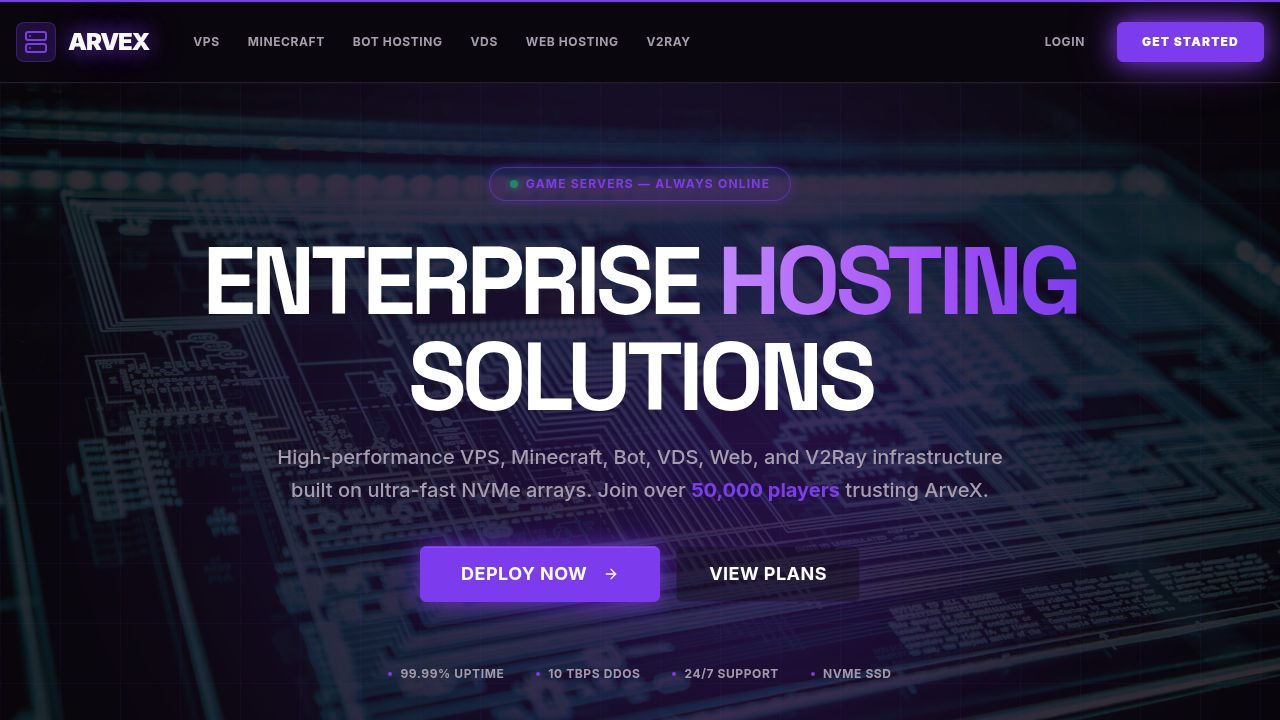
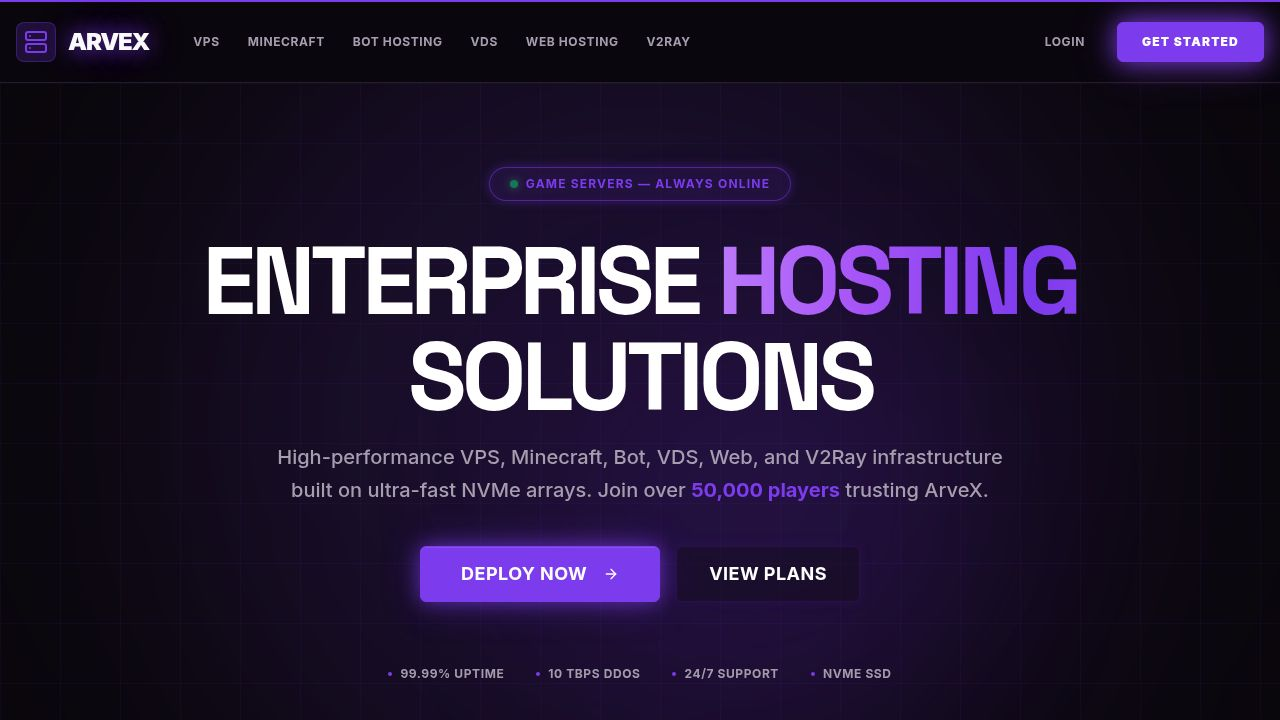
Update Vite configurations to use default environment variables
Update vite.config.ts for both the main arvex app and the mockup-sandbox to provide default values for PORT and BASE_PATH, making the build process more resilient and removing hard requirements for these environment variables.

Replit-Commit-Author: Agent
Replit-Commit-Session-Id: 00a4f35b-fbac-442d-90ed-407f319c77b3
Replit-Commit-Checkpoint-Type: full_checkpoint
Replit-Commit-Event-Id: 59b77670-cc3b-4cc9-9072-15c6058c4232
Replit-Commit-Screenshot-Url: https://storage.googleapis.com/screenshot-production-us-central1/eb1f8a98-8b94-4825-9bcc-7e98b86f394c/00a4f35b-fbac-442d-90ed-407f319c77b3/CQXxLzh
Replit-Helium-Checkpoint-Created: true

Changed region(s): [[0.0, 0.1528, 1.0, 1.0], [0.75, 0.9167, 1.0, 1.0], [0.1562, 0.9167, 0.1875, 1.0]]

diff --git a/artifacts/arvex/vite.config.ts b/artifacts/arvex/vite.config.ts
@@ -4,27 +4,14 @@ import tailwindcss from "@tailwindcss/vite";
 import path from "path";
 import runtimeErrorOverlay from "@replit/vite-plugin-runtime-error-modal";
 
-const rawPort = process.env.PORT;
-
-if (!rawPort) {
-  throw new Error(
-    "PORT environment variable is required but was not provided.",
-  );
-}
-
+const rawPort = process.env.PORT ?? "23182";
 const port = Number(rawPort);
 
 if (Number.isNaN(port) || port <= 0) {
   throw new Error(`Invalid PORT value: "${rawPort}"`);
 }
 
-const basePath = process.env.BASE_PATH;
-
-if (!basePath) {
-  throw new Error(
-    "BASE_PATH environment variable is required but was not provided.",
-  );
-}
+const basePath = process.env.BASE_PATH ?? "/";
 
 export default defineConfig({
   base: basePath,

diff --git a/artifacts/mockup-sandbox/vite.config.ts b/artifacts/mockup-sandbox/vite.config.ts
@@ -5,27 +5,14 @@ import path from "path";
 import runtimeErrorOverlay from "@replit/vite-plugin-runtime-error-modal";
 import { mockupPreviewPlugin } from "./mockupPreviewPlugin";
 
-const rawPort = process.env.PORT;
-
-if (!rawPort) {
-  throw new Error(
-    "PORT environment variable is required but was not provided.",
-  );
-}
-
+const rawPort = process.env.PORT ?? "5173";
 const port = Number(rawPort);
 
 if (Number.isNaN(port) || port <= 0) {
   throw new Error(`Invalid PORT value: "${rawPort}"`);
 }
 
-const basePath = process.env.BASE_PATH;
-
-if (!basePath) {
-  throw new Error(
-    "BASE_PATH environment variable is required but was not provided.",
-  );
-}
+const basePath = process.env.BASE_PATH ?? "/__mockup";
 
 export default defineConfig({
   base: basePath,